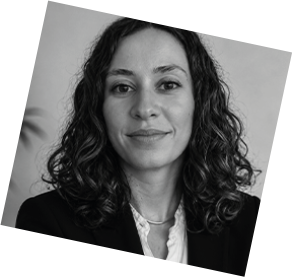
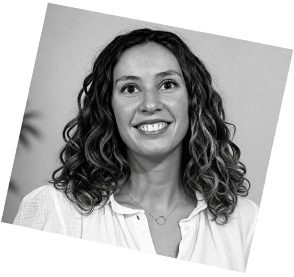
Contact : retrait du numéro de téléphone en doublon avec le pied de page

diff --git a/resources/views/welcome.blade.php b/resources/views/welcome.blade.php
@@ -382,8 +382,6 @@
                     <p class="mt-6 max-w-md text-lg">
                         Un lancement, une annonce, une prise de parole délicate : racontez-nous votre projet, l'équipe revient vers vous rapidement.
                     </p>
-                    <p class="mt-8 text-sm font-medium tracking-[0.2em] uppercase">Ou appelez-nous</p>
-                    <a href="tel:+33388143179" class="mt-1 inline-block text-2xl font-bold hover:text-scribe-red">+33 (0)3 88 14 31 79</a>
                 </div>
 
                 <div class="relative">
